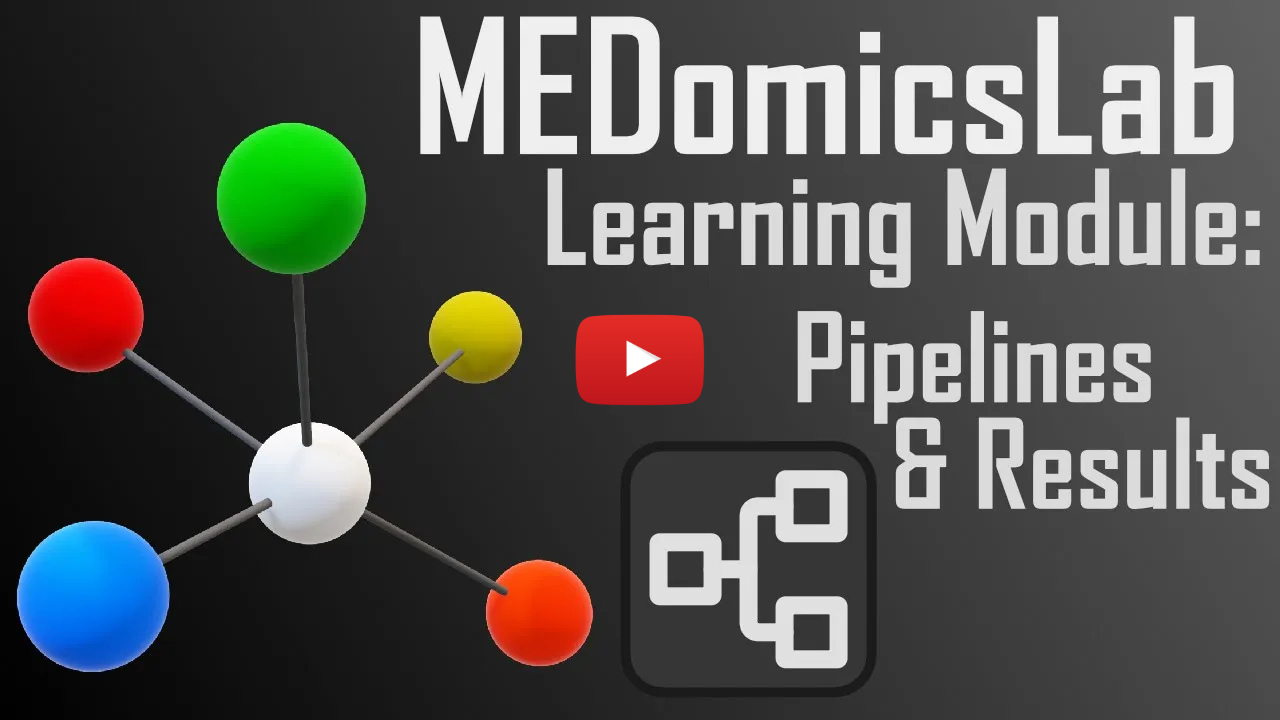
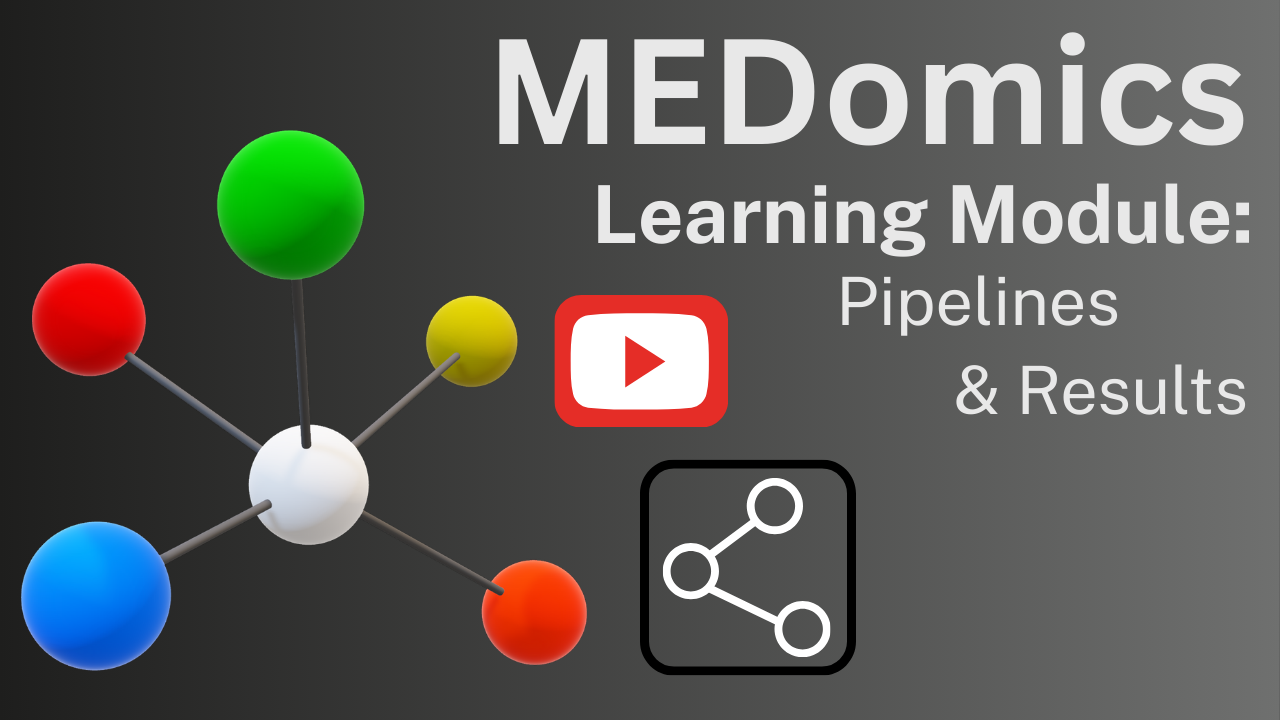
Rebranding commit: MEDomicsLab to MEDomics

diff --git a/README.md b/README.md
@@ -1,11 +1,13 @@
-# MEDomicsLab: Integrative Modeling of Heterogeneous Data in Medicine
+> ⚠ **Important Notice:** This platform, formerly known as **MEDomicsLab**, is now called **MEDomics**.
+
+# MEDomics platform: Integrative Modeling of Heterogeneous Data in Medicine
 
 <div align="center">
   <picture>
     <img
       width="200"
-      src="./resources/MEDomicsLabWithShadow700.png"
-      alt="MEDomicsLab logo white text"
+      src="./resources/MEDomicsNewLogo.png"
+      alt="MEDomics logo white text"
     />
   </picture>
 </div>
@@ -14,26 +16,26 @@
 [![GitHub stars](https://img.shields.io/github/stars/MEDomics-UdeS/MEDomicsLab)]()
 [![GitHub release](https://img.shields.io/github/release/MEDomics-UdeS/MEDomicsLab)]()
 [![GitHub license](https://img.shields.io/github/license/MEDomics-UdeS/MEDomicsLab)](https://opensource.org/license/gpl-3-0)
-[![Gitbook docs](https://img.shields.io/badge/GitBook-Documentation-lg?logo=gitbook&logoColor=white)](https://medomics-udes.gitbook.io/medomicslab-docs)
+[![Gitbook docs](https://img.shields.io/badge/GitBook-Documentation-lg?logo=gitbook&logoColor=white)](https://medomics-udes.gitbook.io/medomics-docs)
 [![YouTube Channel](https://img.shields.io/badge/YouTube-Channel-red?logo=youtube&logoColor=white)](https://www.youtube.com/@MEDomicsLab)
 [![Discord server](https://badgen.net/discord/members/ZbaGj8E6mP)](https://discord.com/invite/ZbaGj8E6mP)
 
 ## Table of Contents 
-- [What is MEDomicsLab?](#what-is-medomicslab)
-- [MEDomicsLab overview](#medomicslab-overview)
-- [MEDomicsLab Components](#medomicslab-components)
-- [MEDomicsLab in Action](#medomicslab-in-action)
+- [What is MEDomics?](#what-is-medomics)
+- [MEDomics Overview](#medomics-overview)
+- [MEDomics Components](#medomics-components)
+- [MEDomics in Action](#medomics-in-action)
 - [Installation and Usage](#installation-and-usage)
   - [Explore Documentation](#explore-documentation)
-  - [Engage in MEDomicsLab](#engage-in-medomicslab)
+  - [Engage in MEDomics](#engage-in-medomics)
 - [Acknowledgement](#acknowledgement)
 
 
-## What is MEDomicsLab?
-**MEDomicsLab** is an open-source platform designed to advance medical AI by bridging clinical and computational research. It empowers clinicians to design experiments, enables computer scientists to customize and adapt them, and refines processes with a flexible backend. The platform offers multiple usage levels: intuitive built-in pipelines, customizable settings, automatic code generation, and modular Python libraries—enhancing collaboration and innovation across healthcare professionals and data scientists.
+## What is MEDomics?
+**MEDomics** is an open-source platform designed to advance medical AI by bridging clinical and computational research. It empowers clinicians to design experiments, enables computer scientists to customize and adapt them, and refines processes with a flexible backend. The platform offers multiple usage levels: intuitive built-in pipelines, customizable settings, automatic code generation, and modular Python libraries—enhancing collaboration and innovation across healthcare professionals and data scientists.
 
-## MEDomicsLab Overview
-**MEDomicsLab** is focused on integrative modeling of heterogeneous medical data to support personalized treatments. The platform offers an environment for manipulating  heterogeneous medical data and developing predictive models to enable the characterization 
+## MEDomics Overview
+The **MEDomics** platform is focused on integrative modeling of heterogeneous medical data to support personalized treatments. The platform offers an environment for manipulating  heterogeneous medical data and developing predictive models to enable the characterization 
 of biological processes.
 
 <div align="center">
@@ -41,7 +43,7 @@ of biological processes.
     <img
       width="600"
       src="./resources/Overview.png"
-      alt="MEDomicsLab overview"
+      alt="MEDomics overview"
     />
   </picture>
 </div>
@@ -54,39 +56,39 @@ data types contributing to more personalized and effective treatment models **by
     <img
       width="600"
       src="./resources/CodeGenerationFeature.png"
-      alt="MEDomicsLab code generation"
+      alt="MEDomics code generation"
     />
   </picture>
 </div>
 
-## MEDomicsLab Components
+## MEDomics Components
 
 <div align="center">
   <picture width="600">
     <img
       width="600"
       src="./resources/Workflow.png"
-      alt="MEDomicsLab workflow"
+      alt="MEDomics workflow"
     />
   </picture>
 </div>
 
-**MEDomicsLab** uses a modular workflow, detailing how patient data is processed to develop and test predictive models for clinical use. The workflow consists of the following layers:
+**MEDomics** uses a modular workflow, detailing how patient data is processed to develop and test predictive models for clinical use. The workflow consists of the following layers:
 
 - **Design layer**: In this layer, various types of input data are integrated to support the analytical process. This includes DICOM images and tabular data in CSV format, such as time series and clinical text data from notes or reports. This layer uses the following modules:
 
-  - [Extraction Module](https://medomics-udes.gitbook.io/medomicslab-docs/tutorials/design/extraction-modules): performs feature extraction to identify critical characteristics—like radiomic features from medical images using the [MEDimage package](https://medimage.app). 
-  - [Input Module](https://medomics-udes.gitbook.io/medomicslab-docs/tutorials/design/input-module): used to process extracted data. It provides extensive functionalities including cleaning empty lines, merging tables, and removing correlated features. It also offers a tagging tool that allows users to organize dataset columns, and offers a graphical implementation of the [MEDprofiles package](https://github.com/MEDomics-UdeS/MEDprofiles) for patient data treatment and visualization.
-  - [Exploratory Module](https://medomics-udes.gitbook.io/medomicslab-docs/tutorials/design/exploratory-module): utilized to assess data characteristics visually or statistically, with tools like [Sweetviz](https://github.com/fbdesignpro/sweetviz), [D-Tale](https://github.com/man-group/dtale), and [ydata-profiling](https://github.com/ydataai/ydata-profiling).
+  - [Extraction Module](https://medomics-udes.gitbook.io/medomics-docs/tutorials/design/extraction-modules): performs feature extraction to identify critical characteristics—like radiomic features from medical images using the [MEDimage package](https://medimage.app). 
+  - [Input Module](https://medomics-udes.gitbook.io/medomics-docs/tutorials/design/input-module): used to process extracted data. It provides extensive functionalities including cleaning empty lines, merging tables, and removing correlated features. It also offers a tagging tool that allows users to organize dataset columns, and offers a graphical implementation of the [MEDprofiles package](https://github.com/MEDomics-UdeS/MEDprofiles) for patient data treatment and visualization.
+  - [Exploratory Module](https://medomics-udes.gitbook.io/medomics-docs/tutorials/design/exploratory-module): utilized to assess data characteristics visually or statistically, with tools like [Sweetviz](https://github.com/fbdesignpro/sweetviz), [D-Tale](https://github.com/man-group/dtale), and [ydata-profiling](https://github.com/ydataai/ydata-profiling).
 
 - **Development Layer**: Once features have been extracted and treated, it enters the Development Layer, which includes key modules for model training and testing:
-  - [Learning Module](https://medomics-udes.gitbook.io/medomicslab-docs/tutorials/development/learning-module): allows users to experiment with different machine learning (ML) models to determine the best-performing algorithms for a given clinical endpoint. After model experimentation, the ML module can help finalize a model ready for evaluation and saves it under the MEDomicsLab format: "*.medmodel*".
-  - [Evaluation Module](https://medomics-udes.gitbook.io/medomicslab-docs/tutorials/development/evaluation-module): enables model validation by testing it on new data and explaining its performance and outcomes using the [explainerdashboard package](https://github.com/oegedijk/explainerdashboard). For models that require distributed data sources for training, a graphical implementation of the [MEDfl package](https://github.com/MEDomics-UdeS/MEDfl) for simulated Federated Learning (FL) is included, allowing users to simulate federated learning experiments.
+  - [Learning Module](https://medomics-udes.gitbook.io/medomics-docs/tutorials/development/learning-module): allows users to experiment with different machine learning (ML) models to determine the best-performing algorithms for a given clinical endpoint. After model experimentation, the ML module can help finalize a model ready for evaluation and saves it under the MEDomics format: "*.medmodel*".
+  - [Evaluation Module](https://medomics-udes.gitbook.io/medomics-docs/tutorials/development/evaluation-module): enables model validation by testing it on new data and explaining its performance and outcomes using the [explainerdashboard package](https://github.com/oegedijk/explainerdashboard). For models that require distributed data sources for training, a graphical implementation of the [MEDfl package](https://github.com/MEDomics-UdeS/MEDfl) for simulated Federated Learning (FL) is included, allowing users to simulate federated learning experiments.
 
-- **Deployment Layer** : After finalizing and evaluating a model, it’s ready to be used in the [Application Module](https://medomics-udes.gitbook.io/medomicslab-docs/tutorials/deployment/application-module). This module enables users to apply the trained model to new datasets or patient data, making it accessible for clinical use. Additionally, the standardized "*.medmodel*" format plays a crucial role in facilitating collaboration, allowing models to be shared seamlessly across teams and ensuring compatibility and ease of integration in diverse environments.
+- **Deployment Layer** : After finalizing and evaluating a model, it’s ready to be used in the [Application Module](https://medomics-udes.gitbook.io/medomics-docs/tutorials/deployment/application-module). This module enables users to apply the trained model to new datasets or patient data, making it accessible for clinical use. Additionally, the standardized "*.medmodel*" format plays a crucial role in facilitating collaboration, allowing models to be shared seamlessly across teams and ensuring compatibility and ease of integration in diverse environments.
 
-## MEDomicsLab in Action
-Explore MEDomicsLab's powerful features through the part two of the machine learning module tutorial. It highlights the intuitive interface and versatile tools available for data analysis and how it can be utilized.
+## MEDomics in Action
+Explore MEDomics's powerful features through the part two of the machine learning module tutorial. It highlights the intuitive interface and versatile tools available for data analysis and how it can be utilized.
 
 <div align="center">
   <p><a href="https://youtu.be/9vcAkIaAcxE?si=p9QIpL2XjQTSIfJ3">
@@ -94,22 +96,22 @@ Explore MEDomicsLab's powerful features through the part two of the machine lear
       width="600"
       src="./resources/LearningModuleTuto.png"
       ref
-      alt="MEDomicsLab learning tutorial part 2"
+      alt="MEDomics learning tutorial part 2"
     />
   </a></p>
 </div>
 
 ## Installation and Usage
-[Get started here](https://medomics-udes.gitbook.io/medomicslab-docs/quick-start).
+[Get started here](https://medomics-udes.gitbook.io/medomics-docs/quick-start).
 
-![Operating systems supported by MEDomicsLab](./resources/OSSystemsSupport.png)
+![Operating systems supported by MEDomics](./resources/OSSystemsSupport.png)
 
 ### Explore Documentation
-Detailed documentation for MEDomicsLab can be found 
-[here](https://medomics-udes.gitbook.io/medomicslab-docs/).
+Detailed documentation for MEDomics can be found 
+[here](https://medomics-udes.gitbook.io/medomics-docs/).
 
-### Engage in MEDomicsLab
-Explore our [contribution page](https://medomics-udes.gitbook.io/medomicslab-docs/contributing) for resources on contributing to MEDomicsLab and setting up your development environment.
+### Engage in MEDomics
+Explore our [contribution page](https://medomics-udes.gitbook.io/medomics-docs/contributing) for resources on contributing to the MEDomics platform and setting up your development environment.
 
 <img src="./resources/ContributingTools.png"/>
 
@@ -121,7 +123,7 @@ This project relies on the following open-source packages, and we are grateful t
   <picture width="600">
     <img
       src="./resources/PackagesUsed-NoBG.png"
-      alt="MEDomicsLab workflow"
+      alt="MEDomics workflow"
     />
   </picture>
 </div>
